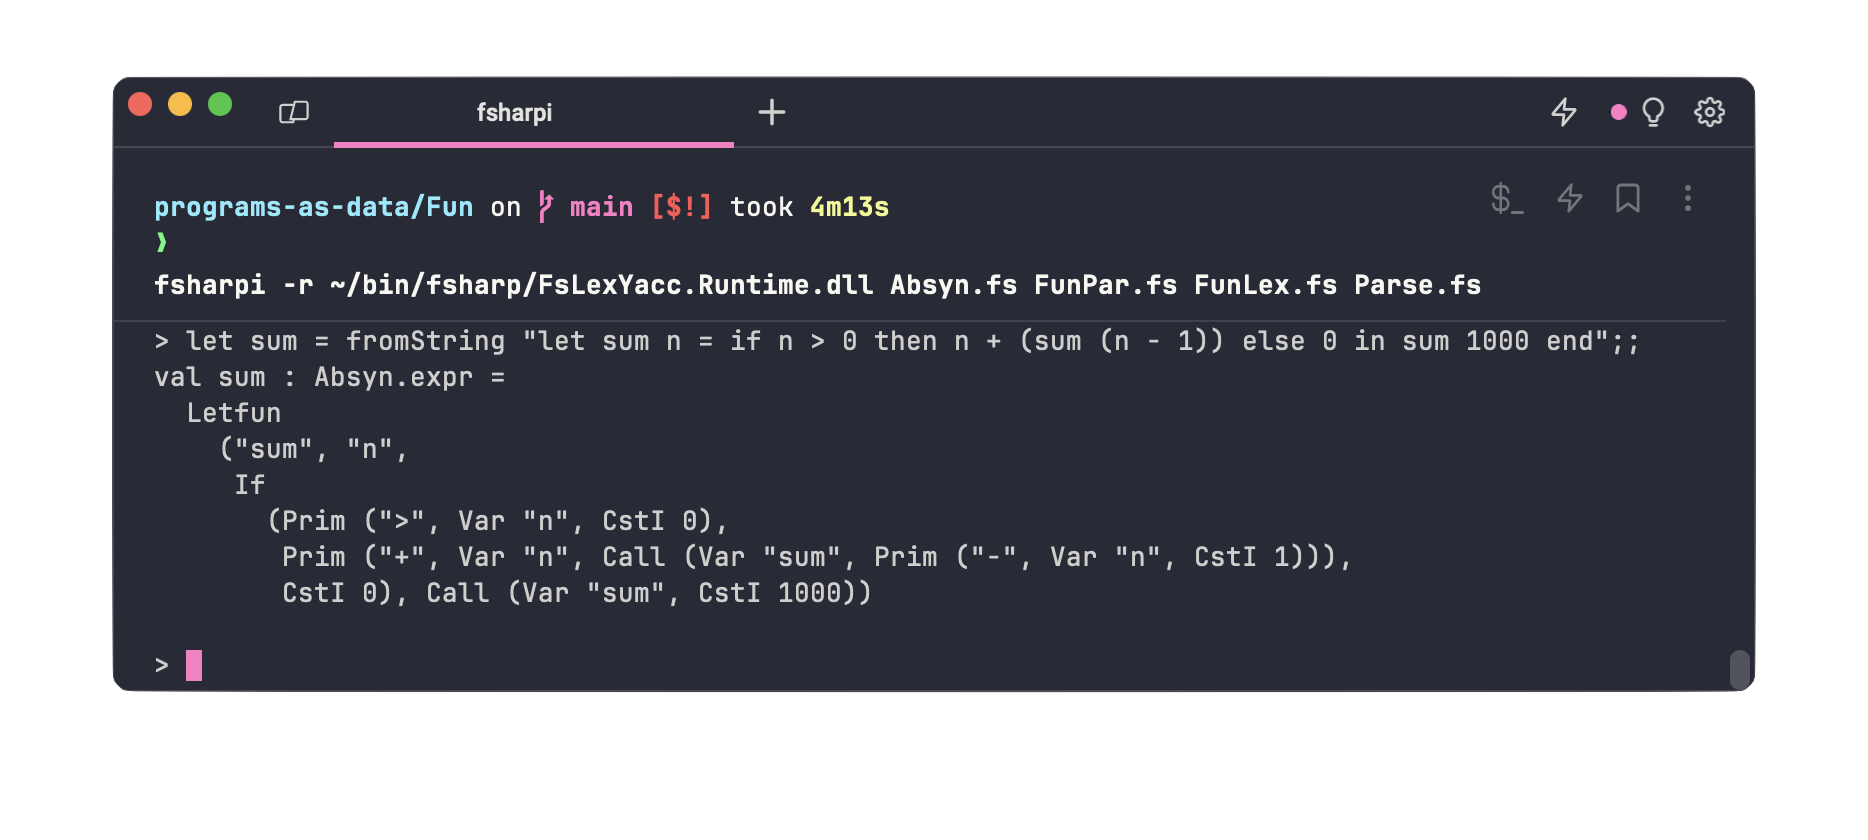
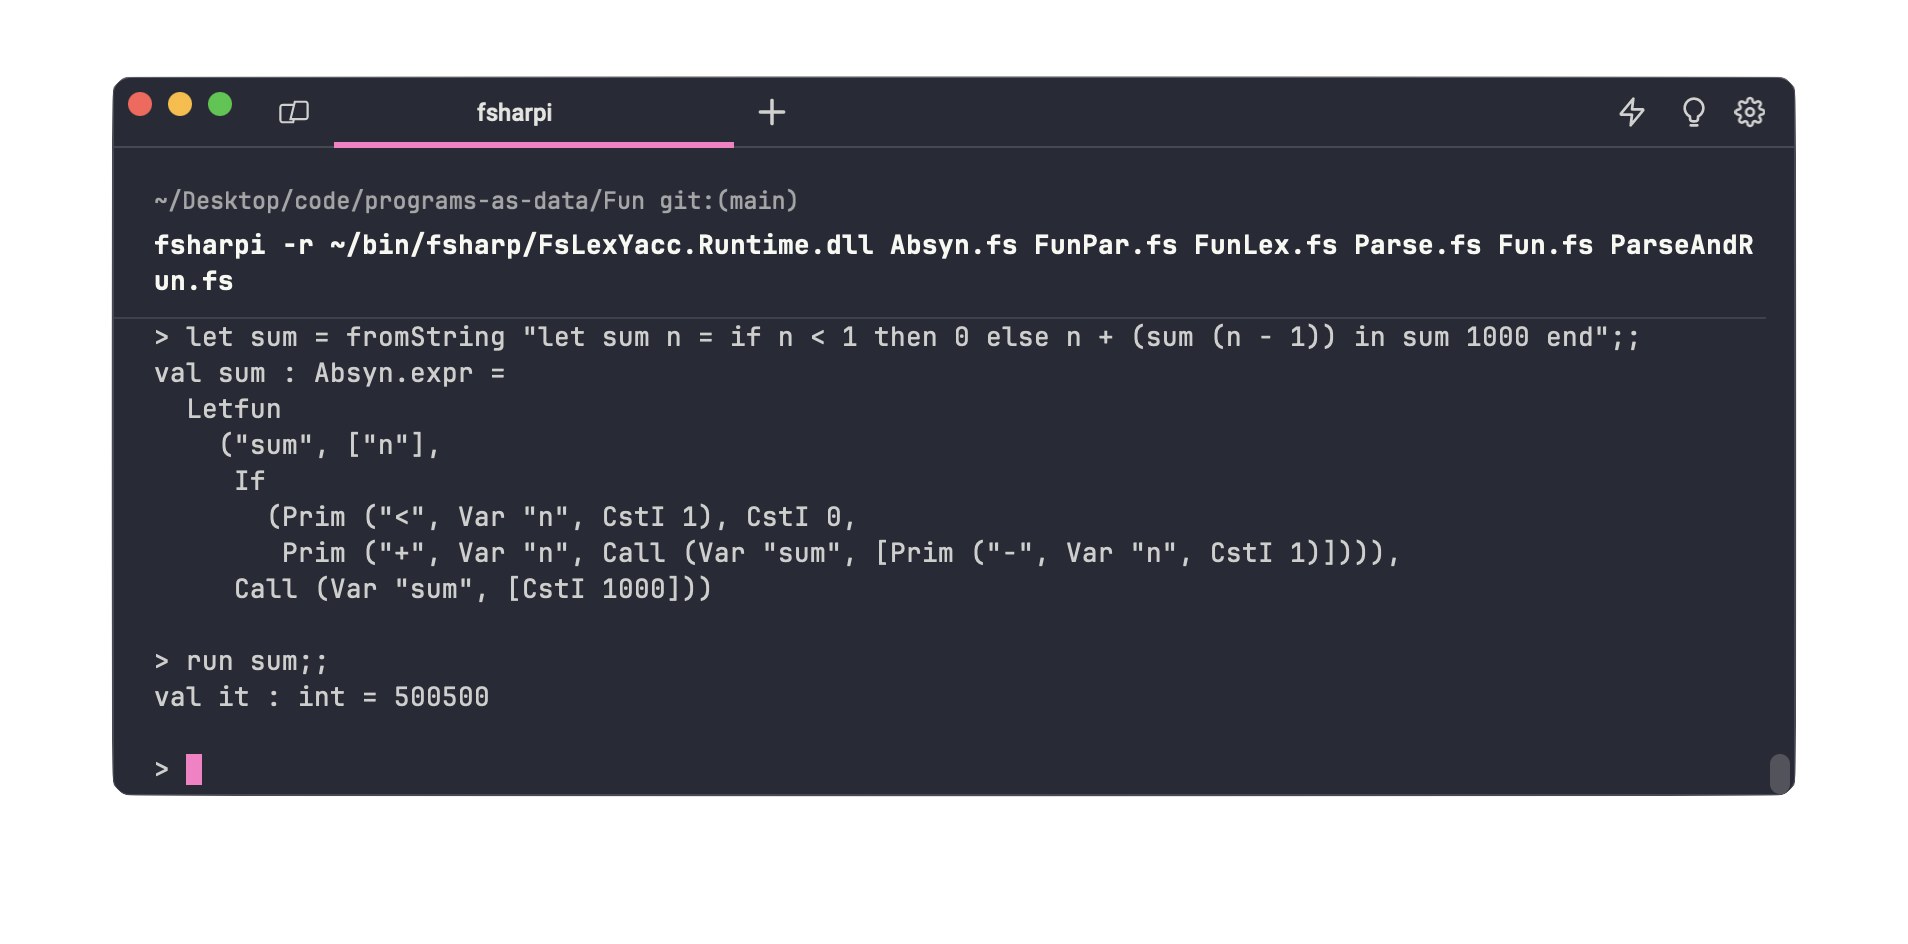
Add screenshots

diff --git a/README.md b/README.md
@@ -465,7 +465,6 @@ run sum;;
 
 Computes to:
 
-TODO update screenshot
 ![screenshot](./screenshots/a4_e4_2_1.png)
 
 Given:
@@ -478,7 +477,6 @@ run threeToTheEight;;
 
 Computes to:
 
-TODO update screenshot
 ![screenshot](./screenshots/a4_e4_2_2.png)
 
 Given:
@@ -491,7 +489,6 @@ run exponentIncrease;;
 
 Computes to:
 
-TODO update screenshot
 ![screenshot](./screenshots/a4_e4_2_3.png)
 
 Given:
@@ -504,7 +501,7 @@ run baseIncrease;;
 
 Computes to:
 
-![TODO](TODO)
+![screenshot](./screenshots/a4_e4_2_4.png)
 
 ### Exercise 4.3
 
@@ -600,7 +597,7 @@ AppExpr:
 
 Proof of being able to run the functions:
 
-![TODO](TODO)
+![screenshot](./screenshots/a4_e4_4.png)
 
 ### Exercise 4.5
 
